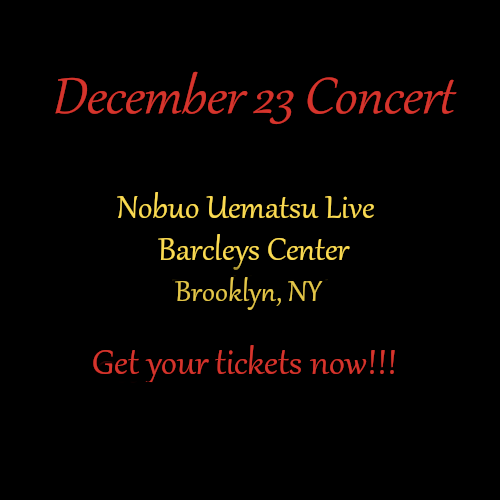
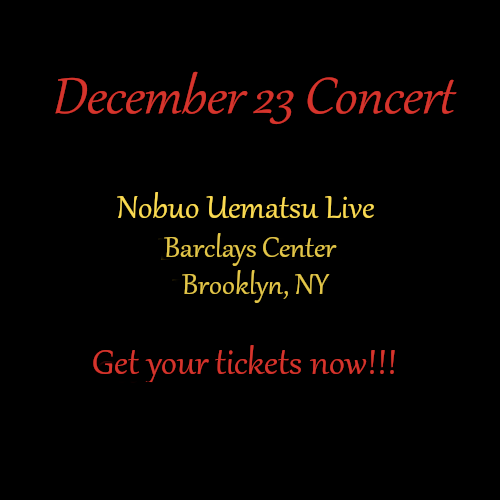
spelling fix

Changed region(s): [[0.3, 0.45, 0.69, 0.63]]

diff --git a/pages/checkout.html b/pages/checkout.html
@@ -95,7 +95,7 @@
                         </div>
                     </div>
                 </div>
-                
+
             </div>
         </div>
 
@@ -120,7 +120,7 @@
                         <div class="col-sm-4">
                             <input type="text" class="form-control" id="mailState" placeholder="State">
                             <br />
-                            <input type="number" class="form-control" id="mailZipcode" onKeyDown="if(this.value.length==5) return false;" placeholder="Zipcode">
+                            <input type="number" class="form-control" id="mailZipcode" onKeyDown="if(this.value.length==5) return false;" placeholder="zip code">
                             <br />
                             <input type="number" class="form-control" id="mailPhoneNumber" placeholder="Phone Number (Optional)">
                             <br />
@@ -150,7 +150,7 @@
                         <div class="col-sm-4">
                             <input type="string" class="form-control" id="billState" placeholder="State">
                             <br />
-                            <input type="number" class="form-control" id="billZipcode" onKeyDown="if(this.value.length==5) return false;" placeholder="Zipcode">
+                            <input type="number" class="form-control" id="billZipcode" onKeyDown="if(this.value.length==5) return false;" placeholder="zip code">
                             <br />
                             <input type="number" class="form-control" id="billPhoneNumber" placeholder="Phone Number (Optional)">
                             <br />

diff --git a/pages/confirmation.html b/pages/confirmation.html
@@ -86,9 +86,9 @@
 
                     <div class="col-sm-6 text-center concertmenu">
                         <div  class="row justify-content-center">
-                            <h2>You are all set. We look forward seing you!</h2>
+                            <h2>You are all set. We look forward seeing you!</h2>
                             <br>
-                            <h2>Please See your email for tickets.</h2>
+                            <h2>Please see your email for tickets.</h2>
                         </div>
                         <div style="padding: 4%" id="userPreferences" class="row justify-content-left">
                             <!-- specific concert appended here-->
